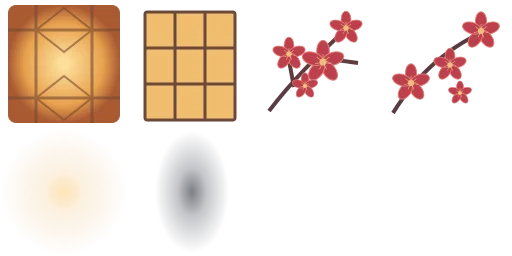
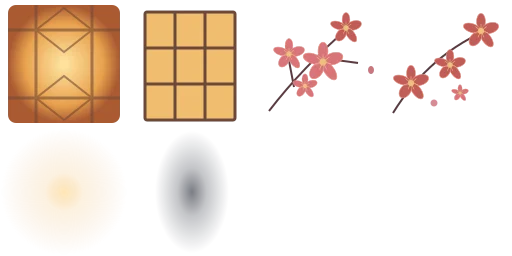
feat(hsin): frame oriented acting bounds and soften peripheral blossoms

Changed region(s): [[0.75, 0.0312, 1.0, 0.4375], [0.5, 0.0312, 0.7188, 0.4375], [0.7188, 0.25, 0.75, 0.2812]]

diff --git a/src/scripts/hsin-stage.ts b/src/scripts/hsin-stage.ts
@@ -1,4 +1,4 @@
-import {HSIN_STAGE,pixelRatio,cameraFit,attentionHeight} from './hsin-stage-config.mjs';
+import {HSIN_STAGE,pixelRatio,attentionHeight} from './hsin-stage-config.mjs';
 import {createStageLoop} from './hsin-stage-loop.mjs';
 import {createBakedPose,createBakedChest} from './hsin-baked-pose.mjs';
 import {createFacialActing} from './hsin-face-acting.mjs';
@@ -9,7 +9,8 @@ import {createPoseTransition} from './hsin-pose-transition.mjs';
 import {createRestBreath} from './hsin-rest-breath.mjs';
 import {LUNAR_TERRACE,createLunarTerrace} from './hsin-lunar-terrace.mjs';
 import {HSIN_CINEMATIC_IDLE,createCinematicReference} from './hsin-cinematic-idle.mjs';
-import {createLunarPresentation} from './hsin-lunar-presentation.mjs';
+import {lunarCameraFit} from './hsin-lunar-framing.mjs';
+import {HSIN_LUNAR_PRESENTATION,createLunarPresentation} from './hsin-lunar-presentation.mjs';
 
 /** Public player. The local-file lab, geometry solvers and authoring UI are separate entries. */
 export function mountHsinStage(root:HTMLElement){
@@ -72,20 +73,20 @@ export function mountHsinStage(root:HTMLElement){
    model.position.y-=profile.bounds.min[1];scene.add(model);scene.updateMatrixWorld(true);
    const meshes:any[]=[];model.traverse((o:any)=>{if(o.isSkinnedMesh)meshes.push(o);});const bones:any[]=[...new Set(meshes.flatMap(m=>m.skeleton.bones))];const byName=new Map(bones.map(b=>[b.name,b])),head:any=byName.get('ORG-Bip001Head');if(!head)throw Error('Head rig missing.');
    reference=createCinematicReference({bones,profile,enabled:cinematic});reference.apply();scene.updateMatrixWorld(true);
-   presentation=createLunarPresentation({THREE:T,model,bones,bounds:profile.bounds,cameraAzimuthDegrees:cinematic?HSIN_CINEMATIC_IDLE.cameraAzimuthDegrees:0});presentation.apply();
+   presentation=createLunarPresentation({THREE:T,model,bones,bounds:profile.bounds,cameraAzimuth:HSIN_LUNAR_PRESENTATION.cameraAzimuth});presentation.apply();
    const moonlit=createLunarTerrace({THREE:T,skyTexture,moonTexture,stoneTexture,atlasTexture,waterTexture,feet:presentation.feet(),rootDegrees:presentation.parameters.rootDegrees});scene.background=moonlit.background;scene.fog=moonlit.fog;scene.add(moonlit.group);
    scene.add(new T.AmbientLight(0xb7c9e3,.95));const key=new T.DirectionalLight(0xf0dec0,1.8);key.position.set(-2,4,5);scene.add(key);const rim=new T.DirectionalLight(0xeac27a,1.15);rim.position.set(-2,4,-5);scene.add(rim);
    // Static transforms, including the root yaw, are frozen only after explicit matrix updates.
    scene.traverse((o:any)=>{o.updateMatrix();o.matrixAutoUpdate=false;});scene.updateMatrixWorld(true);
    const camera=new T.PerspectiveCamera(HSIN_STAGE.fov,1,.03,45);orbit=new OrbitControls(camera,canvas);orbit.enablePan=false;orbit.enableDamping=true;orbit.dampingFactor=HSIN_STAGE.damping;orbit.rotateSpeed=HSIN_STAGE.rotateSpeed;orbit.zoomSpeed=HSIN_STAGE.zoomSpeed;orbit.minDistance=HSIN_STAGE.minDistance;orbit.minPolarAngle=HSIN_STAGE.minPolar;orbit.maxPolarAngle=HSIN_STAGE.maxPolar;orbit.minAzimuthAngle=-HSIN_STAGE.maxAzimuth;orbit.maxAzimuthAngle=HSIN_STAGE.maxAzimuth;
-   let initialDistance=3.5,worldDirty=true,firstFit=true;const fit=()=>{
+   let initialDistance=3.5,worldDirty=true,firstFit=true,initialTarget=[0,HSIN_STAGE.baseTargetY,0];const fit=()=>{
     const rect=host.getBoundingClientRect(),w=Math.max(1,rect.width),h=Math.max(1,rect.height);camera.aspect=w/h;camera.updateProjectionMatrix();renderer.setPixelRatio(pixelRatio(w,h,devicePixelRatio||1,touch));renderer.setSize(w,h,false);root.dataset.pixelRatio=renderer.getPixelRatio().toFixed(2);
-    const previousFit=initialDistance;initialDistance=cameraFit(profile.bounds,camera.aspect);orbit.maxDistance=Math.max(5.5,initialDistance*1.55);if(firstFit){firstFit=false;resetCamera();}else{const d=camera.position.distanceTo(orbit.target),next=Math.max(orbit.minDistance,Math.min(orbit.maxDistance,d*initialDistance/previousFit));camera.position.sub(orbit.target).multiplyScalar(next/d).add(orbit.target);orbit.update();}loop?.invalidate();
+    const previousFit=initialDistance;const framing=lunarCameraFit(camera.aspect);initialDistance=framing.distance;initialTarget=framing.target;orbit.maxDistance=Math.max(5.5,initialDistance*1.55);if(firstFit){firstFit=false;resetCamera();}else{const d=camera.position.distanceTo(orbit.target),next=Math.max(orbit.minDistance,Math.min(orbit.maxDistance,d*initialDistance/previousFit));camera.position.sub(orbit.target).multiplyScalar(next/d).add(orbit.target);orbit.update();}loop?.invalidate();
    };
-   resetCamera=()=>{const azimuth=(cinematic?HSIN_CINEMATIC_IDLE.cameraAzimuthDegrees:0)*Math.PI/180;orbit.target.set(0,HSIN_STAGE.baseTargetY,0);camera.position.set(Math.sin(azimuth)*initialDistance,HSIN_STAGE.baseTargetY+.23,Math.cos(azimuth)*initialDistance);orbit.update();loop?.invalidate();};
+   resetCamera=()=>{const azimuth=HSIN_LUNAR_PRESENTATION.cameraAzimuth*Math.PI/180;orbit.target.fromArray(initialTarget);camera.position.set(orbit.target.x+Math.sin(azimuth)*initialDistance,orbit.target.y+.23,orbit.target.z+Math.cos(azimuth)*initialDistance);orbit.update();loop?.invalidate();};
    zoom=(factor:number)=>{const current=camera.position.distanceTo(orbit.target),distance=Math.max(orbit.minDistance,Math.min(orbit.maxDistance,current*factor));camera.position.sub(orbit.target).multiplyScalar(distance/current).add(orbit.target);orbit.update();loop?.invalidate();};
    orbit.addEventListener('change',()=>{
-    const height=attentionHeight(camera.position.distanceTo(orbit.target),initialDistance),delta=height-orbit.target.y;if(Math.abs(delta)>1e-6){orbit.target.y=height;camera.position.y+=delta;}moonlit.frameSky(camera,orbit.target);worldDirty=true;loop?.invalidate();
+    const height=attentionHeight(camera.position.distanceTo(orbit.target),initialDistance)+HSIN_LUNAR_PRESENTATION.cameraTargetOffset[1],delta=height-orbit.target.y;if(Math.abs(delta)>1e-6){orbit.target.y=height;camera.position.y+=delta;}moonlit.frameSky(camera,orbit.target);worldDirty=true;loop?.invalidate();
    });
    fit();resize=new ResizeObserver(fit);resize.observe(host);
    const seed=crypto.getRandomValues(new Uint32Array(1))[0],face=createFacialActing({seed,pass:'auto-b1',autonomous:true,intensity:.75,morphLimits:profile.limits,gazeAxes:profile.gazeAxes});
